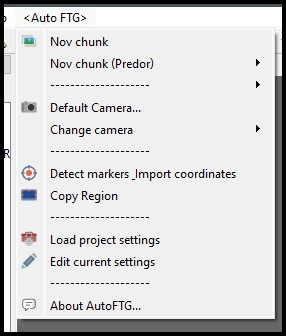
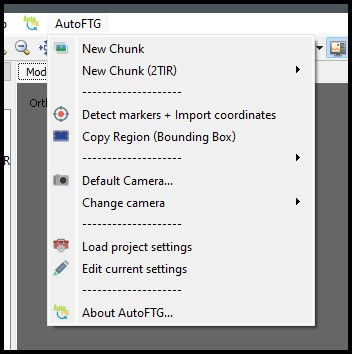
README.md and menu preview image update

diff --git a/README.md b/README.md
@@ -1,5 +1,13 @@
 # AutoFTG - Scripts for AgiSoft Metashape Pro
 
-A combination of scripts for process automation in Agisoft Metashape Pro
+Scripts for process automation in Agisoft Metashape Pro\n\nThis is an assembly of existing scripts from other users, and some additional scripts written for use in work process at project 2TIR, tunnel T8-KP in Slovenia."
+
+Author: Boris Bilc (Slovenia)"
+
+## References
+
+Agisoft GitHub repository:https://github.com/agisoft-llc/metashape-scripts"
+Copy Bounding Box Script: https://github.com/agisoft-llc/metashape-scripts/blob/master/src/copy_bounding_box_dialog.py"
+
 
 ![menu](menu_preview.jpg)
